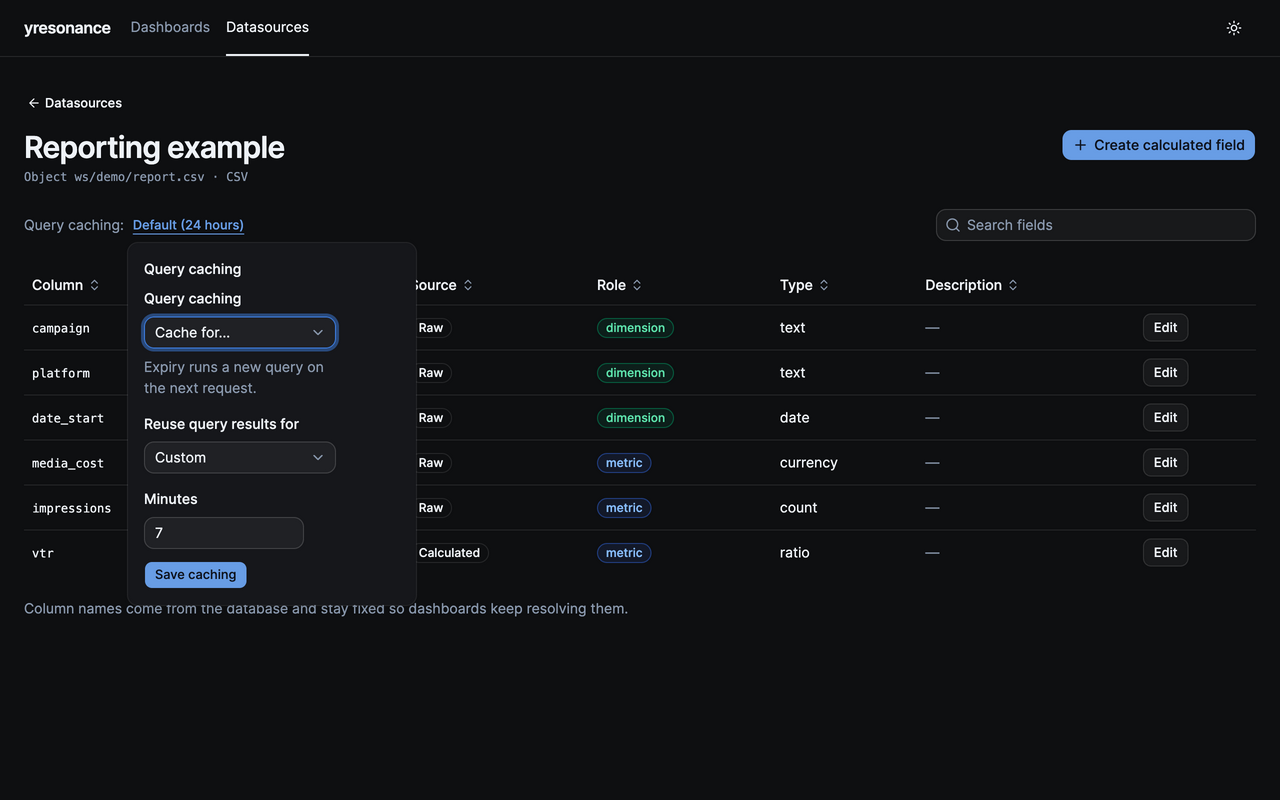
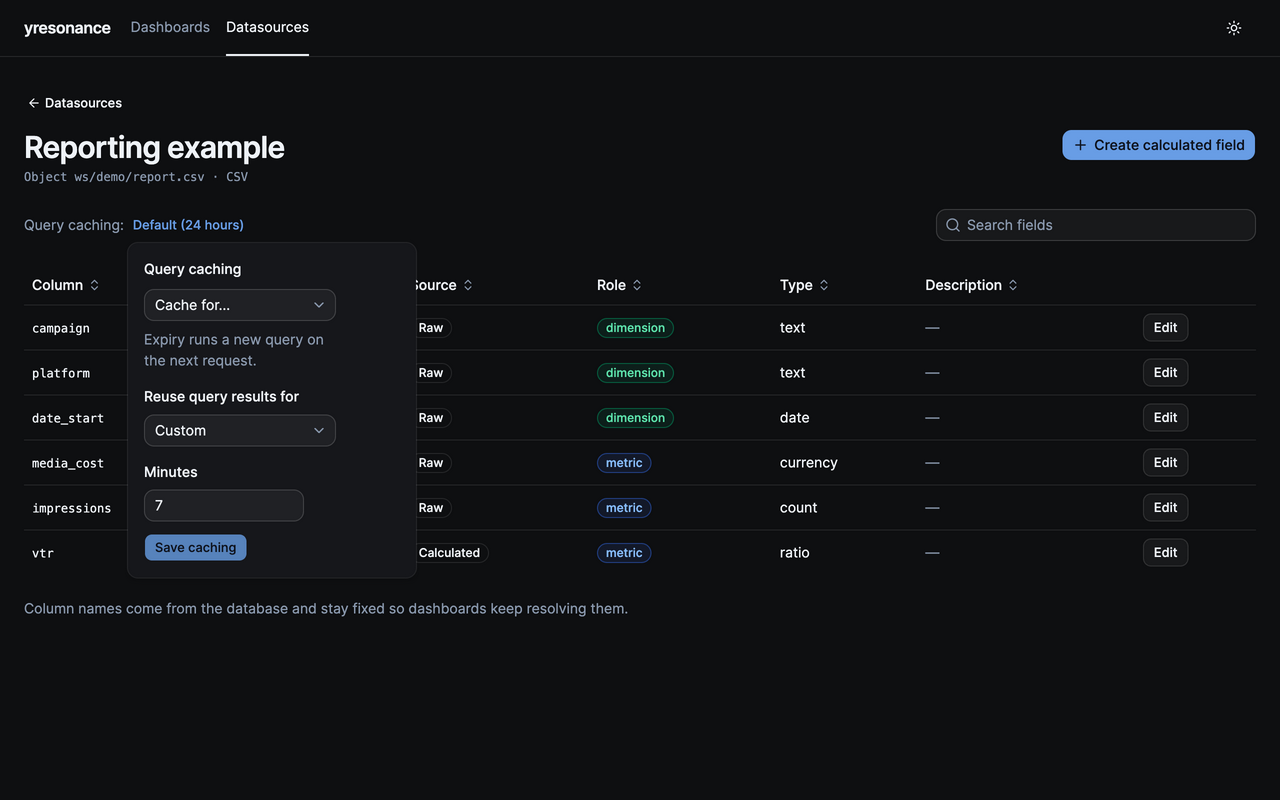
fix: use shadcn selects for datasource caching
Keep one visible heading in the caching popover and preserve the
accessible label. Use the existing Select component for cache mode
and duration in both settings and registration.

Validation: bun run check passes with 327 unit tests. All 12 focused
UI checks pass on desktop and mobile.

AI-Assisted: true
AI-Agent: codex
AI-Model: openai/gpt-6.1-sol

Changed region(s): [[0.0938, 0.3438, 0.2812, 0.75]]

diff --git a/src/components/datasource-cache-fields.tsx b/src/components/datasource-cache-fields.tsx
@@ -2,49 +2,80 @@ import { useId, useState } from 'react';
 import type { DatasourceCachePolicy } from '#/domain/schema';
 import { Field, FieldDescription, FieldLabel } from './ui/field';
 import { Input } from './ui/input';
-import { NativeSelect, NativeSelectOption } from './ui/native-select';
+import {
+  Select,
+  SelectContent,
+  SelectGroup,
+  SelectItem,
+  SelectTrigger,
+  SelectValue,
+} from './ui/select';
 
 export function DatasourceCacheFields({
   policy,
   onChange,
   disabled,
+  hideLabel = false,
   defaultTtlSeconds = 86_400,
 }: {
   policy: DatasourceCachePolicy;
   onChange: (policy: DatasourceCachePolicy) => void;
   disabled?: boolean;
+  hideLabel?: boolean;
   defaultTtlSeconds?: number;
 }) {
   const id = useId();
   const presets = [60, 300, 900, 3600, 86400];
   const duration = policy.mode === 'duration' ? policy.ttlSeconds : 300;
   const [custom, setCustom] = useState(!presets.includes(duration));
+  const modes = [
+    {
+      value: 'default',
+      label: `Default (${defaultTtlSeconds < 3600 ? `${defaultTtlSeconds / 60} minutes` : `${defaultTtlSeconds / 3600} hours`})`,
+    },
+    { value: 'duration', label: 'Cache for…' },
+    { value: 'disabled', label: 'Disabled' },
+  ];
+  const durations = [
+    { value: '60', label: '1 minute' },
+    { value: '300', label: '5 minutes' },
+    { value: '900', label: '15 minutes' },
+    { value: '3600', label: '1 hour' },
+    { value: '86400', label: '24 hours' },
+    { value: 'custom', label: 'Custom' },
+  ];
   return (
     <div className="flex flex-wrap items-start gap-4">
       <Field className="w-full sm:w-48">
-        <FieldLabel htmlFor={`${id}-mode`}>Query caching</FieldLabel>
-        <NativeSelect
-          id={`${id}-mode`}
+        <FieldLabel htmlFor={`${id}-mode`} className={hideLabel ? 'sr-only' : undefined}>
+          Query caching
+        </FieldLabel>
+        <Select
+          items={modes}
           value={policy.mode}
           disabled={disabled}
-          onChange={(event) =>
+          onValueChange={(value) => {
+            if (value === null) return;
             onChange(
-              event.target.value === 'duration'
+              value === 'duration'
                 ? { mode: 'duration', ttlSeconds: 300 }
-                : { mode: event.target.value === 'disabled' ? 'disabled' : 'default' },
-            )
-          }
+                : { mode: value === 'disabled' ? 'disabled' : 'default' },
+            );
+          }}
         >
-          <NativeSelectOption value="default">
-            Default (
-            {defaultTtlSeconds < 3600
-              ? `${defaultTtlSeconds / 60} minutes`
-              : `${defaultTtlSeconds / 3600} hours`}
-            )
-          </NativeSelectOption>
-          <NativeSelectOption value="duration">Cache for…</NativeSelectOption>
-          <NativeSelectOption value="disabled">Disabled</NativeSelectOption>
-        </NativeSelect>
+          <SelectTrigger id={`${id}-mode`} className="w-full">
+            <SelectValue />
+          </SelectTrigger>
+          <SelectContent>
+            <SelectGroup>
+              {modes.map((item) => (
+                <SelectItem key={item.value} value={item.value}>
+                  {item.label}
+                </SelectItem>
+              ))}
+            </SelectGroup>
+          </SelectContent>
+        </Select>
         <FieldDescription>
           {policy.mode === 'disabled'
             ? 'Run every requested query.'
@@ -55,26 +86,32 @@ export function DatasourceCacheFields({
         <>
           <Field className="w-full sm:w-48">
             <FieldLabel htmlFor={`${id}-duration`}>Reuse query results for</FieldLabel>
-            <NativeSelect
-              id={`${id}-duration`}
+            <Select
+              items={durations}
               disabled={disabled}
               value={custom ? 'custom' : String(duration)}
-              onChange={(event) => {
-                setCustom(event.target.value === 'custom');
+              onValueChange={(value) => {
+                if (value === null) return;
+                setCustom(value === 'custom');
                 onChange({
                   mode: 'duration',
-                  ttlSeconds:
-                    event.target.value === 'custom' ? duration : Number(event.target.value),
+                  ttlSeconds: value === 'custom' ? duration : Number(value),
                 });
               }}
             >
-              <NativeSelectOption value="60">1 minute</NativeSelectOption>
-              <NativeSelectOption value="300">5 minutes</NativeSelectOption>
-              <NativeSelectOption value="900">15 minutes</NativeSelectOption>
-              <NativeSelectOption value="3600">1 hour</NativeSelectOption>
-              <NativeSelectOption value="86400">24 hours</NativeSelectOption>
-              <NativeSelectOption value="custom">Custom</NativeSelectOption>
-            </NativeSelect>
+              <SelectTrigger id={`${id}-duration`} className="w-full">
+                <SelectValue />
+              </SelectTrigger>
+              <SelectContent>
+                <SelectGroup>
+                  {durations.map((item) => (
+                    <SelectItem key={item.value} value={item.value}>
+                      {item.label}
+                    </SelectItem>
+                  ))}
+                </SelectGroup>
+              </SelectContent>
+            </Select>
           </Field>
           {custom ? (
             <Field className="w-full sm:w-40">

diff --git a/tests/e2e/datasource-caching.spec.ts b/tests/e2e/datasource-caching.spec.ts
@@ -6,28 +6,32 @@ test('datasource caching can be saved, reloaded, customized, and disabled', asyn
   await mockYresonanceApi(page, { isAdmin: false });
   await page.goto('/datasources/src_reporting');
   const settings = page.getByRole('dialog', { name: 'Query caching', exact: true });
-  const mode = settings.getByLabel('Query caching', { exact: true });
+  const mode = settings.getByRole('combobox', { name: 'Query caching', exact: true });
   await page.getByRole('button', { name: 'Query caching: Default (24 hours)' }).click();
-  await expect(mode).toHaveValue('default');
-  await mode.selectOption('duration');
-  await page.getByLabel('Reuse query results for').selectOption('custom');
+  await expect(mode).toContainText('Default (24 hours)');
+  await mode.click();
+  await page.getByRole('option', { name: 'Cache for…', exact: true }).click();
+  await page.getByRole('combobox', { name: 'Reuse query results for' }).click();
+  await page.getByRole('option', { name: 'Custom', exact: true }).click();
   await page.getByLabel('Minutes', { exact: true }).fill('7');
   await page.getByRole('button', { name: 'Save caching' }).click();
   await expect(page.getByRole('button', { name: 'Save caching' })).toBeHidden();
   await page.reload();
   await page.getByRole('button', { name: 'Query caching: 7 minutes' }).click();
   await expect(page.getByLabel('Minutes', { exact: true })).toHaveValue('7');
-  await mode.selectOption('disabled');
+  await mode.click();
+  await page.getByRole('option', { name: 'Disabled', exact: true }).click();
   await page.getByRole('button', { name: 'Save caching' }).click();
   await expect(page.getByRole('button', { name: 'Save caching' })).toBeHidden();
   await page.reload();
   await page.getByRole('button', { name: 'Query caching: Disabled' }).click();
-  await expect(mode).toHaveValue('disabled');
-  await mode.selectOption('duration');
+  await expect(mode).toContainText('Disabled');
+  await mode.click();
+  await page.getByRole('option', { name: 'Cache for…', exact: true }).click();
   await page.keyboard.press('Escape');
   await expect(settings).toBeHidden();
   await page.getByRole('button', { name: 'Query caching: Disabled' }).click();
-  await expect(mode).toHaveValue('disabled');
+  await expect(mode).toContainText('Disabled');
 });
 
 for (const role of ['editor', 'viewer', 'shared'] as const) {

diff --git a/tests/e2e/clickhouse-registration.spec.ts b/tests/e2e/clickhouse-registration.spec.ts
@@ -38,8 +38,11 @@ test('datasource registration chooses a backend and authorized external table wi
   await page.getByLabel('Name', { exact: true }).fill('External campaign data');
   await page.getByLabel('Database', { exact: true }).fill('reporting');
   await page.getByLabel('Table', { exact: true }).fill('campaigns');
-  await expect(page.getByLabel('Query caching')).toHaveValue('default');
-  await page.getByLabel('Query caching').selectOption('disabled');
+  await expect(page.getByRole('combobox', { name: 'Query caching' })).toContainText(
+    'Default (5 minutes)',
+  );
+  await page.getByRole('combobox', { name: 'Query caching' }).click();
+  await page.getByRole('option', { name: 'Disabled', exact: true }).click();
   const registered = page.waitForRequest(
     (request) =>
       request.url().includes('/api/yresonance') &&

diff --git a/src/components/datasource-cache-settings.tsx b/src/components/datasource-cache-settings.tsx
@@ -70,6 +70,7 @@ export function DatasourceCacheSettings({
           <PopoverTitle>Query caching</PopoverTitle>
           <form onSubmit={save} className="flex flex-col items-start gap-3">
             <DatasourceCacheFields
+              hideLabel
               key={String(open)}
               policy={policy}
               onChange={setPolicy}
